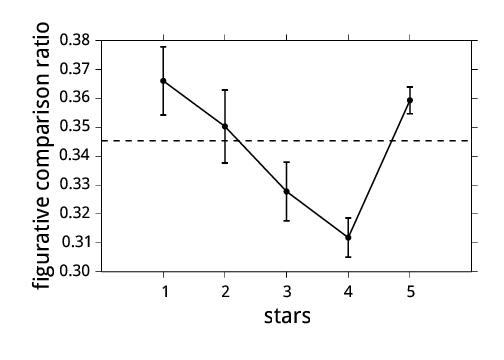
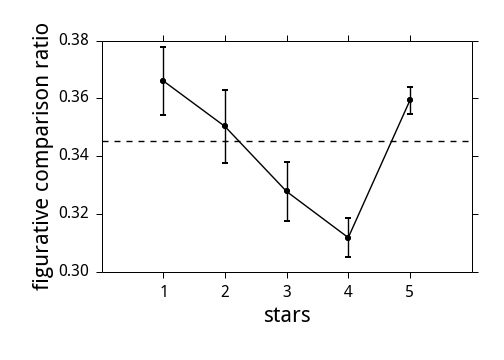
Update figurative comparison website

diff --git a/content/figurative-comparisons/index.html b/content/figurative-comparisons/index.html
@@ -27,19 +27,45 @@ EMNLP 2014 paper. [ <a href="#">pdf</a> ] [ <a href="#paper">cite</a> ] [ <a hre
 </ul>
 -->
 <blockquote>
+    When you spend a large part of your life underground, you develop a very literal mind. 
     Dwarfs have no use for metaphor and simile. Rocks are hard, the darkness is
     dark.
+    Start messing around with descriptions like that and you’re in big trouble, is their motto.
     <footer>&mdash;Terry Pratchett, <cite>Guards! Guards!</cite></footer>
 </blockquote>
 <h3>TL; DR</h3>
 <p>
-We studied comparisons in Amazon product reviews. We collected an 
-<a href="#dataset">annotated dataset</a> of figurative and literal comparisons.
-We find linguistic features that can classify the two with high accuracy.
-We observed significant correlations between the use of figurative
-comparisons and review rating and helpfulness.</p>
+Unlike dwarfs, we humans love trouble, so we study figurative comparisons
+(similes) in the wild, from Amazon product reviews. We make available an 
+<a href="#dataset">annotated dataset</a>.
+We manage to detect figurativeness with high accuracy, using linguistic
+features.
+This puts us in the novel position of being able to investigate the interaction
+of figurative language use and social context: we show strong relationships 
+between figurative and review rating and helpfulness.</p>
 
 <h3>What are comparisons and similes?</h3>
+<p>Comparisons are phrases that express the likeness of two things. They
+are useful for communicating something potentially new, helping the audience
+picture it better and frame it better in relation to something known.</p>
+
+<p>Often, comparisons are not meant to be taken literally. Figurative
+comparisons are an important figure of speech called <em>simile</em>. The
+difference can be seen in the following examples, paraphrased from Amazon
+reviews:</p>
+
+<ul>
+<li><span class="topic">Sterling</span> is much cheaper than <span class="vehicle">gold</span>.</li>
+<li><span class="topic">Her voice</span> makes this song shine brighter than <span class="vehicle">gold</span>.</li>
+</ul>
+
+<p>
+There is no simple way to automatically tell whether a comparison is literal
+or figurative. Not even humans can do it without error.  Using linguistic and
+domain-specific cues, we manage to get within 10% of human performance on our
+data. 
+</p>
+<!--
 <p>Comparisons are phrases that express the likeness of two things. 
 They are useful in introducing new concepts in terms
 of known, given ones. Here's how Terry Pratchett describes
@@ -58,27 +84,30 @@ eyebrows and its wings, is a matter-of-fact, literal comparison in terms of the 
 the next sentences go a bit wild.  The rest of the comparisons suggest less
 direct likenessess, making them figurative in meaning. Such comparisons
 are called <em>similes</em>. </p>
- 
+--> 
 <h3>Why do they matter?</h3>
 <p>
-Figurative language is not just a way for authors to show off.  It turns out
-people use it a lot when describing stuff. 
+People like similes, as shown by the <a
+href="https://www.goodreads.com/quotes/tag/simile">popularity of the best ones
+on goodreads</a>!  But figurative language is not at all restricted to literature
+and poetic language.
+It turns out people use it a lot when describing stuff. 
 We find that
 about <strong>30% of the comparisons in Amazon reviews are figurative</strong>.</p>
 <p>The use of similes is strongly related to <strong>extreme opinion</strong>
 in terms of review ratings:</p>
-<img src="stars.png" />
+<div class="figure"> <img src="stars.png" /></div>
 <p>Also, the comparisons in reviews found helpful by more people tend to be
 more literal:</p>
-<img src="helpful.png" />
+<div class="figure"><img src="helpful.png" /></div>
 <h3 id="dataset">Dataset</h3>
-<p><strong>Download the <a href="#">dataset</a></strong> (contains this <a href="#">readme</a>).</p>
+<p><strong>Download the <a href="#">dataset</a></strong> (contains this <a href="#">readme</a>). <strong>(coming soon)</strong></p>
 <p>Short paragraph describing the data.
 Vivamus consectetur fringilla lorem, sed viverra felis laoreet eu.
 Etiam ac fermentum quam. <a href="http://www.colourlovers.com/palette/3428383/Expecto_Patronum">Nullam luctus varius</a> ligula ut porta. </p>
 
 <h3 id="paper">Paper</h3>
-<p><strong>Download the <a href="#">PDF</a></strong> (coming soon).</p>
+<p><strong>Download the <a href="#">PDF</a></strong> <strong>(coming soon)</strong>.</p>
 <p><strong>BibTeX entry:</strong><br />
 <pre class="bibtex">
 @inproceedings{Niculae+al-Brighter,
@@ -96,7 +125,7 @@ Etiam ac fermentum quam. <a href="http://www.colourlovers.com/palette/3428383/Ex
 <p><strong>Abstract. </strong> 
 Comparisons are common linguistic devices used to indicate the likeness of two things.  
 Often, this likeness is not meant in the literal sense&mdash;for example, "I slept like a log" does not imply that logs actually sleep.
-In this paper we propose a computational study of figurative comparisons, or <em>similes</em>
+In this paper we propose a computational study of figurative comparisons, or <em>similes</em>.
 Our starting point is a new large dataset of comparisons extracted from product reviews and annotated for figurativeness.
 We use this dataset to characterize figurative language in naturally occurring
 comparisons and reveal linguistic patterns indicative of this phenomenon.  

diff --git a/content/figurative-comparisons/style.css b/content/figurative-comparisons/style.css
@@ -125,3 +125,8 @@ blockquote footer {
 
 
 footer p { font-size: 0.6667em; /* 12px */ line-height: 2.2500em; /* 27px */ margin-top: 2.2500em; margin-bottom: 0.0000em; }
+
+.figure {
+    margin: 0;
+    text-align: center;
+}
